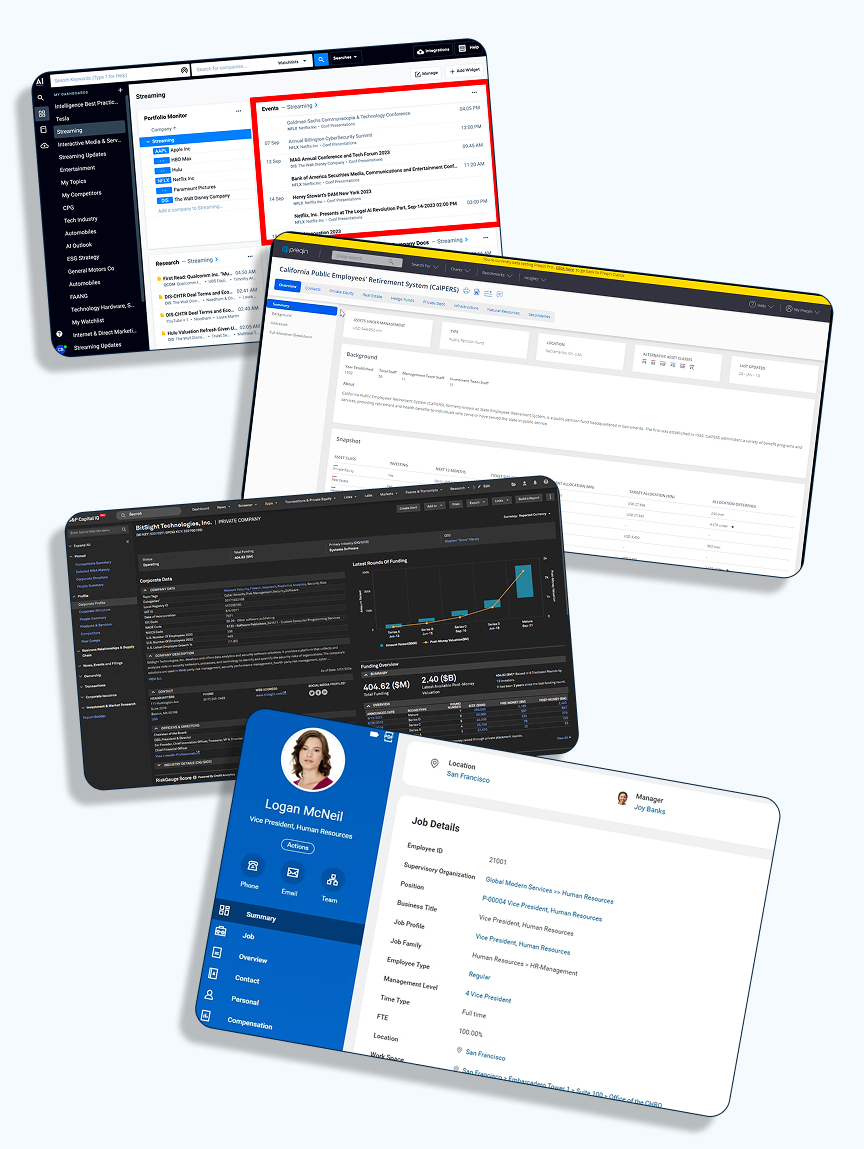
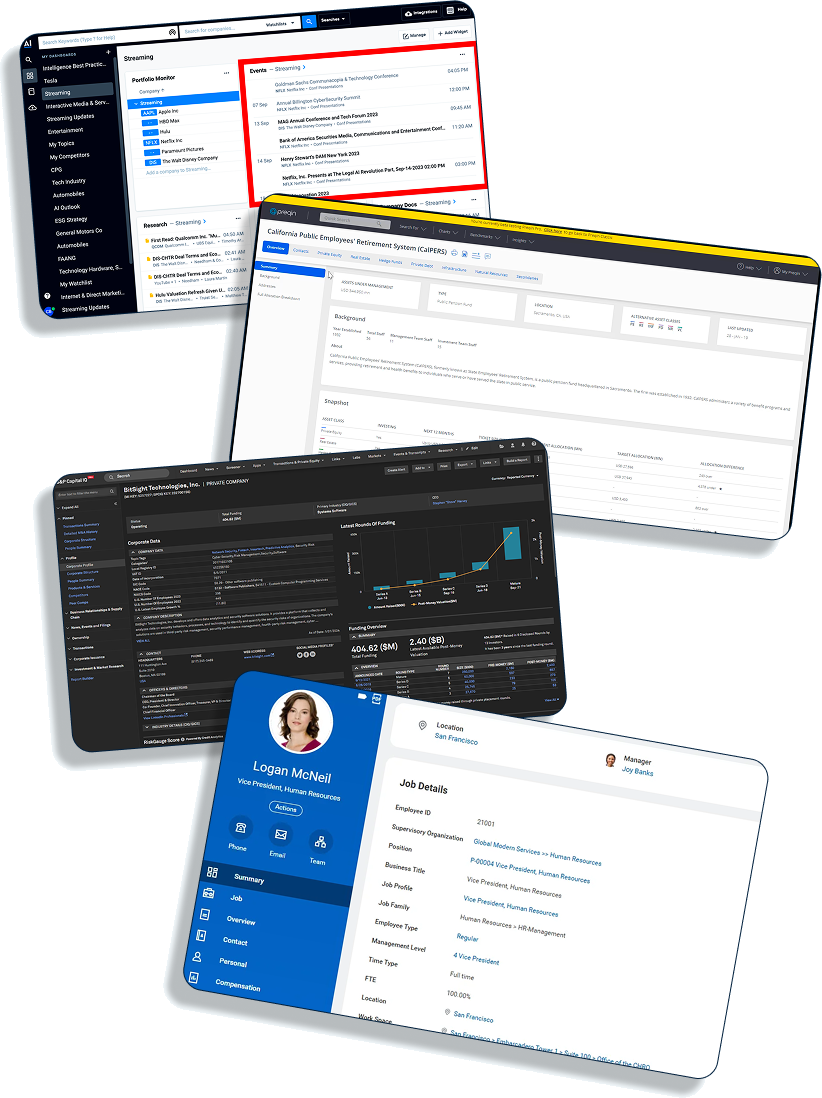
Rebuild competitive analysis, mockup, and dark-mode highlight treatments
- Key the pale canvas out of the competitive-analysis and lowfi-mockup
  composites so they sit transparent on the page (no light backing box
  in dark mode), and add small alternating-side numbered badges on the
  competitive audit screenshot in place of the "numbered top to bottom"
  caption
- Replace the flat midfi composite with the four real screenshots,
  each stacked in its own row next to its matching caption
- Add a gentle bounce to every standalone screenshot on the case study
  (hero, competitive audit, lowfi/midfi mockups, solution screens)
- Swap the dark-mode highlight color from yellow to a sheer pale blue
  so highlighted text can stay the same white-blue as the rest of the
  sentence instead of needing fixed navy for contrast
- Center the pain-points intro line and the solution intro paragraph
  (matching the video's own width) with the content below them

Claude-Session: https://claude.ai/code/session_01CDBb5DtJCh317ZfsR89d5L

diff --git a/pages/project-1.html b/pages/project-1.html
@@ -177,15 +177,18 @@
 
       <h3 class="case-subheading">Research</h3>
       <div class="detail-grid">
-        <div class="detail-image" style="aspect-ratio: auto; height: auto;">
-          <img class="placeholder" style="aspect-ratio: 864 / 1149; width: 100%;" src="../assets/competitive-analysis.png" alt="four overlapping product screenshots making up the competitive audit board">
+        <div class="detail-image competitor-shot-wrap" style="aspect-ratio: auto; height: auto;">
+          <img class="case-shot bounce-img" style="aspect-ratio: 822 / 1098;" src="../assets/competitive-analysis.png" alt="four overlapping product screenshots making up the competitive audit board: AlphaSense, S&amp;P Capital IQ, Preqin, and Workday">
+          <span class="shot-badge" style="top: 3%; left: 3%;" aria-hidden="true">1</span>
+          <span class="shot-badge" style="top: 15%; right: 3%;" aria-hidden="true">2</span>
+          <span class="shot-badge" style="top: 40%; left: 3%;" aria-hidden="true">3</span>
+          <span class="shot-badge" style="top: 62%; right: 3%;" aria-hidden="true">4</span>
           <ul class="competitor-legend">
             <li><span class="legend-num">1</span> AlphaSense</li>
             <li><span class="legend-num">2</span> S&amp;P Capital IQ</li>
             <li><span class="legend-num">3</span> Preqin</li>
             <li><span class="legend-num">4</span> Workday</li>
           </ul>
-          <p class="mockup-note" style="font-size:11px; color:var(--button-stroke); margin-top:4px;">Numbered top to bottom, matching the stack above.</p>
         </div>
         <div class="case-note">
           <p>We audited four platforms that handle corporate events or financial data. AlphaSense,
@@ -272,7 +275,7 @@
       </div>
 
       <h3 class="case-subheading pain-points-heading">The Major Pain Points</h3>
-      <p class="mockup-note" style="text-align:center;">Six pain points identified through interviews, surveys, and competitive benchmarking.</p>
+      <p class="mockup-note" style="text-align:center; max-width:560px; margin-left:auto; margin-right:auto;">Six pain points identified through interviews, surveys, and competitive benchmarking.</p>
       <div class="pain-points-grid">
         <div class="pain-card">
           <span class="pain-card-num">01</span>
@@ -309,7 +312,7 @@
       <h3 class="case-subheading">Iteration</h3>
       <div class="detail-grid">
         <div class="detail-image" style="aspect-ratio: auto;">
-          <img class="placeholder" style="aspect-ratio: 1909 / 1200; width: 100%;" src="../assets/lowfi-mockups.png" alt="four low-fidelity wireframes: events list, company events view, reminder flow, and calendar toggle">
+          <img class="case-shot bounce-img" style="aspect-ratio: 1841 / 1085;" src="../assets/lowfi-mockups.png" alt="four low-fidelity wireframes: events list, company events view, reminder flow, and calendar toggle">
         </div>
         <div>
           <p class="mockup-note">We started low-fidelity, sketching where corporate events should even
@@ -338,33 +341,38 @@
         </div>
       </div>
 
-      <div class="detail-grid">
-        <div class="detail-image" style="aspect-ratio: auto;">
-          <img class="placeholder" style="aspect-ratio: 2160 / 1280; width: 100%;" src="../assets/midfi-mockups.png" alt="four mid-fidelity screens: global events list, company profile events, calendar toggle, and filter sidebar">
+      <p class="mockup-note">From there we moved into mid-fidelity: a tabbed all / upcoming / past
+         structure, a toggle between list and calendar views, and a sidebar for filters and
+         reminders. One piece of weekly mentor feedback stuck with us most: <mark>PitchBook's
+         branding wasn't a suggestion, it was a requirement</mark> — which sent us back to rebuild
+         components to actually match their system, not just borrow its palette.</p>
+      <div class="midfi-rows">
+        <div class="midfi-row">
+          <img class="case-shot bounce-img" style="aspect-ratio: 1840 / 1024;" src="../assets/midfi-global-events.png" alt="mid-fidelity global events tab for Microsoft Corporation, with filters expanded">
+          <div class="mockup-caption-card">
+            <span class="mockup-caption-title">Global events</span>
+            <span class="mockup-caption-desc">All / upcoming / past tabs, with a row expanded for dial-in info and quick actions.</span>
+          </div>
         </div>
-        <div>
-          <p class="mockup-note">From there we moved into mid-fidelity: a tabbed all / upcoming / past
-             structure, a toggle between list and calendar views, and a sidebar for filters and
-             reminders. One piece of weekly mentor feedback stuck with us most: <mark>PitchBook's
-             branding wasn't a suggestion, it was a requirement</mark> — which sent us back to rebuild
-             components to actually match their system, not just borrow its palette.</p>
-          <div class="mockup-captions">
-            <div class="mockup-caption-card">
-              <span class="mockup-caption-title">Global events</span>
-              <span class="mockup-caption-desc">All / upcoming / past tabs, with a row expanded for dial-in info and quick actions.</span>
-            </div>
-            <div class="mockup-caption-card">
-              <span class="mockup-caption-title">Company profile</span>
-              <span class="mockup-caption-desc">Apple Inc.'s own events tab, with the live call surfaced at the top.</span>
-            </div>
-            <div class="mockup-caption-card">
-              <span class="mockup-caption-title">Calendar toggle</span>
-              <span class="mockup-caption-desc">The same company view switched to a calendar, reminders docked to the side.</span>
-            </div>
-            <div class="mockup-caption-card">
-              <span class="mockup-caption-title">Filter sidebar</span>
-              <span class="mockup-caption-desc">The global list paired with a collapsible filter panel for type, industry, and status.</span>
-            </div>
+        <div class="midfi-row">
+          <img class="case-shot bounce-img" style="aspect-ratio: 1840 / 1024;" src="../assets/midfi-company-profile.png" alt="mid-fidelity company-scoped events view for Apple Inc.">
+          <div class="mockup-caption-card">
+            <span class="mockup-caption-title">Company profile</span>
+            <span class="mockup-caption-desc">Apple Inc.'s own events tab, with the live call surfaced at the top.</span>
+          </div>
+        </div>
+        <div class="midfi-row">
+          <img class="case-shot bounce-img" style="aspect-ratio: 1840 / 1024;" src="../assets/midfi-calendar-toggle.png" alt="mid-fidelity calendar view for Apple Inc. with a docked reminders panel">
+          <div class="mockup-caption-card">
+            <span class="mockup-caption-title">Calendar toggle</span>
+            <span class="mockup-caption-desc">The same company view switched to a calendar, reminders docked to the side.</span>
+          </div>
+        </div>
+        <div class="midfi-row">
+          <img class="case-shot bounce-img" style="aspect-ratio: 1840 / 1024;" src="../assets/midfi-filter-sidebar.png" alt="mid-fidelity global events list with the filter sidebar open">
+          <div class="mockup-caption-card">
+            <span class="mockup-caption-title">Filter sidebar</span>
+            <span class="mockup-caption-desc">The global list paired with a collapsible filter panel for type, industry, and status.</span>
           </div>
         </div>
       </div>

diff --git a/css/style.css b/css/style.css
@@ -67,10 +67,13 @@
   color: var(--background);
 }
 
-/* keeps the highlighted phrase in the home-page intro the same color as
-   the rest of the sentence in dark mode, instead of the fixed navy
-   --ink (which is meant only for text on light bubble surfaces) */
+/* dark mode swaps the yellow highlight for a sheer pale-blue wash, so the
+   marked phrase can keep reading in the same white-blue --text color as
+   the rest of the sentence, instead of needing a fixed navy --ink to stay
+   legible against yellow */
+:root[data-theme="dark"] mark,
 :root[data-theme="dark"] .intro mark {
+  background: rgba(167, 212, 228, 0.22);
   color: var(--text);
 }
 
@@ -629,6 +632,70 @@ img.placeholder {
 .detail-image {
   width: 100%;
   aspect-ratio: 1 / 1;
+  position: relative;
+}
+
+/* ------------------------------------------------------- case screenshots
+   Shared look for every standalone screenshot on the case study page
+   (hero, competitive audit, lowfi/midfi mockups): no grey backing plate
+   (some of these are transparent-background PNGs, so a solid fill would
+   show through as an ugly light box in dark mode) plus the same gentle
+   idle bob used elsewhere on the site. */
+.case-shot {
+  display: block;
+  width: 100%;
+  background: none;
+}
+
+.bounce-img {
+  animation: title-bob 2.8s ease-in-out infinite;
+}
+
+/* small numbered circle overlaid on a corner of the competitive-audit
+   screenshot; alternates left/right per card so it reads top to bottom
+   without needing a separate "numbered top to bottom" caption */
+.competitor-shot-wrap {
+  position: relative;
+}
+
+.shot-badge {
+  position: absolute;
+  width: 28px;
+  height: 28px;
+  border-radius: 50%;
+  background: var(--accent-warm);
+  color: var(--ink);
+  display: flex;
+  align-items: center;
+  justify-content: center;
+  font-size: 13px;
+  font-variation-settings: "wght" var(--wght-medium);
+  box-shadow: 0 4px 10px rgba(20, 62, 102, 0.3);
+  z-index: 2;
+}
+
+/* ------------------------------------------------------------- midfi rows
+   Each mid-fidelity screen stacked in its own row alongside its caption,
+   instead of one flat composite image with captions listed separately,
+   so every screenshot lines up with the copy that describes it. */
+.midfi-rows {
+  display: flex;
+  flex-direction: column;
+  gap: var(--space-4);
+  margin-top: var(--space-4);
+}
+
+.midfi-row {
+  display: grid;
+  grid-template-columns: 1.5fr 1fr;
+  gap: var(--space-4);
+  align-items: center;
+}
+
+@media (max-width: 640px) {
+  .midfi-row {
+    grid-template-columns: 1fr;
+  }
 }
 
 .bubble-note {
@@ -702,6 +769,7 @@ img.placeholder {
   background: var(--page-bg);
   border-radius: var(--radius-lg);
   box-shadow: 0 14px 28px rgba(20, 62, 102, 0.18);
+  animation: title-bob 3.2s ease-in-out infinite;
 }
 
 /* quick-jump tabs, right-aligned directly under the hero image, linking
@@ -1220,6 +1288,10 @@ img.placeholder {
   text-align: center;
   margin-left: auto;
   margin-right: auto;
+  /* matches .solution-video's own max-width so the paragraph shares the
+     video's exact horizontal center instead of stretching to the wider
+     default paragraph measure */
+  max-width: 520px;
 }
 
 /* ---------------------------------------------------- dark-mode toggle
@@ -1311,7 +1383,14 @@ img.placeholder {
   border-radius: var(--radius-lg);
   overflow: hidden;
   box-shadow: 0 12px 22px rgba(20, 62, 102, 0.18);
+  animation: title-bob 2.8s ease-in-out infinite;
 }
+
+.solution-card:nth-child(2) .solution-img-wrap { animation-delay: 0.15s; }
+.solution-card:nth-child(3) .solution-img-wrap { animation-delay: 0.3s; }
+.solution-card:nth-child(4) .solution-img-wrap { animation-delay: 0.45s; }
+.solution-card:nth-child(5) .solution-img-wrap { animation-delay: 0.6s; }
+.solution-card:nth-child(6) .solution-img-wrap { animation-delay: 0.75s; }
 
 .solution-img {
   position: absolute;
